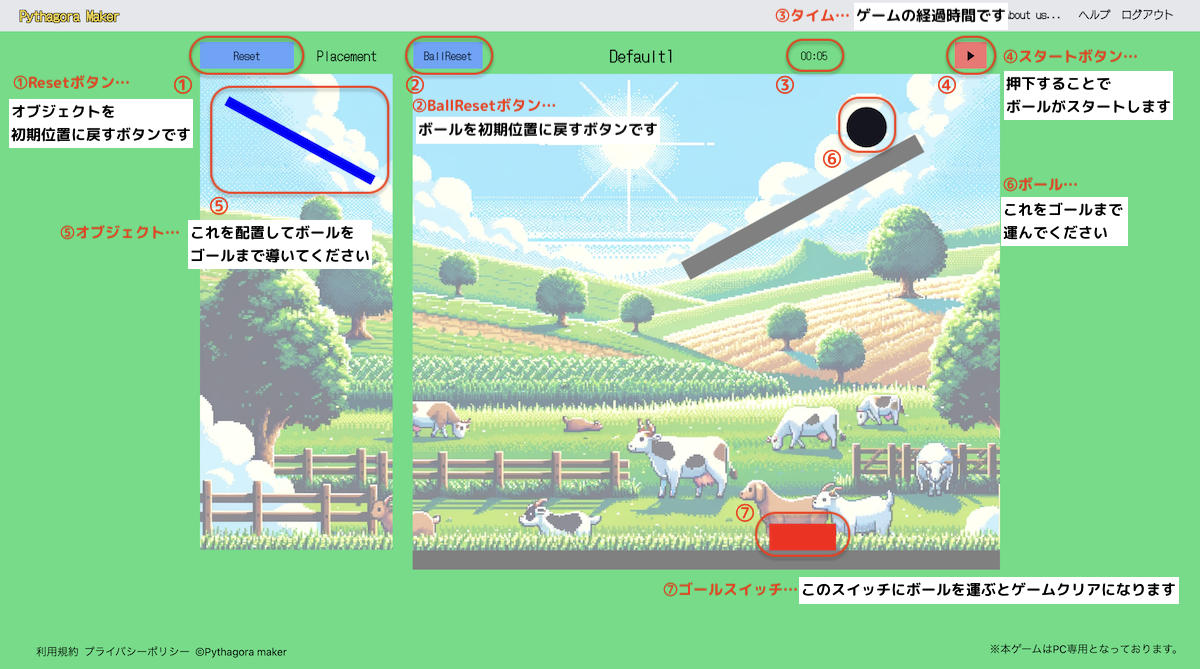
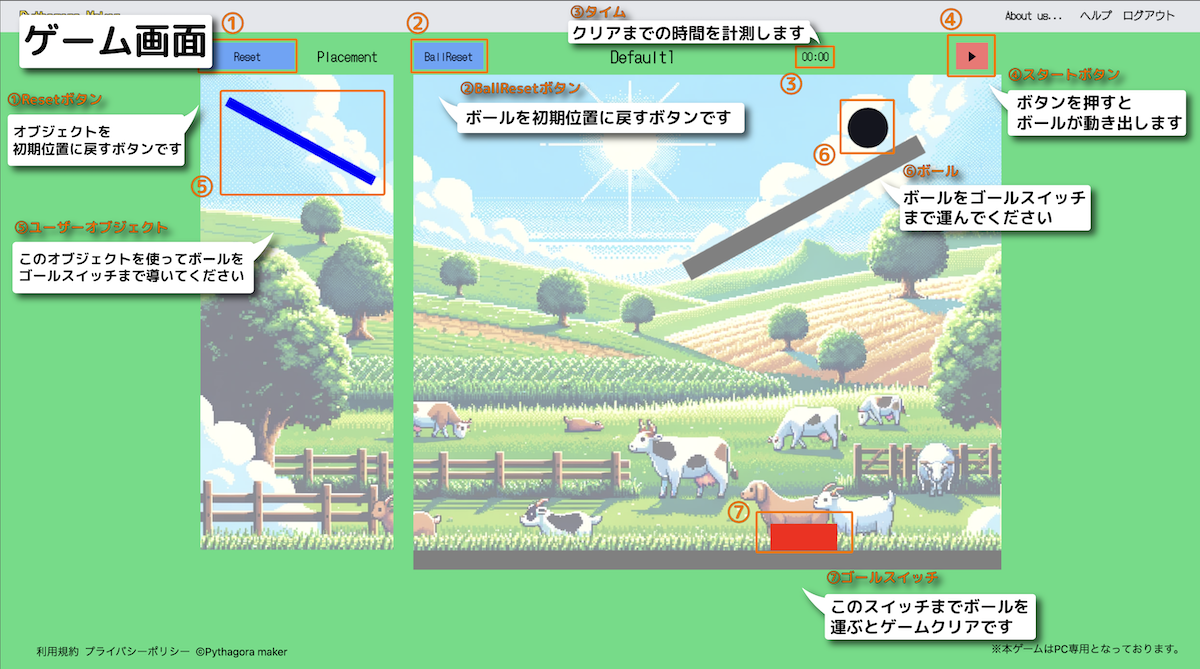
fix:ヘルプ画面の画像を差し替えた

diff --git a/src/pages/static/HelpCard.jsx b/src/pages/static/HelpCard.jsx
@@ -4,6 +4,9 @@ const helpStages = [
   { help: 'help1', imagePath: '/assets/imgs/help/help1.png' },
   { help: 'help2', imagePath: '/assets/imgs/help/help2.png' },
   { help: 'help3', imagePath: '/assets/imgs/help/help3.png' },
+  { help: 'help4', imagePath: '/assets/imgs/help/help4.png' },
+  { help: 'help5', imagePath: '/assets/imgs/help/help5.png' },
+  { help: 'help6', imagePath: '/assets/imgs/help/help6.png' },
 ];
 
 const STAGE_PER_PAGE = 1;
